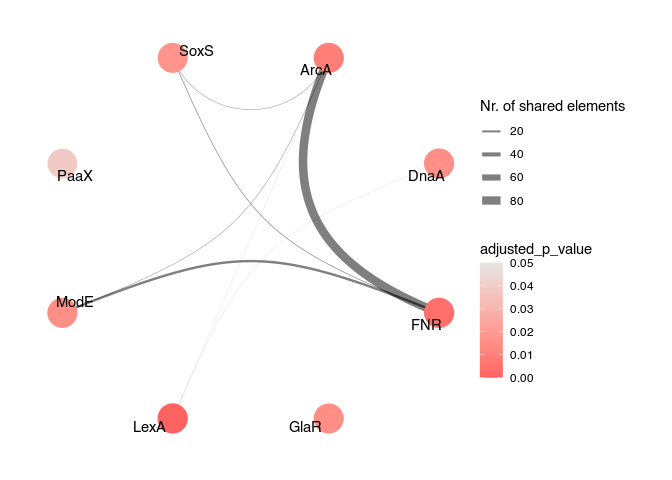
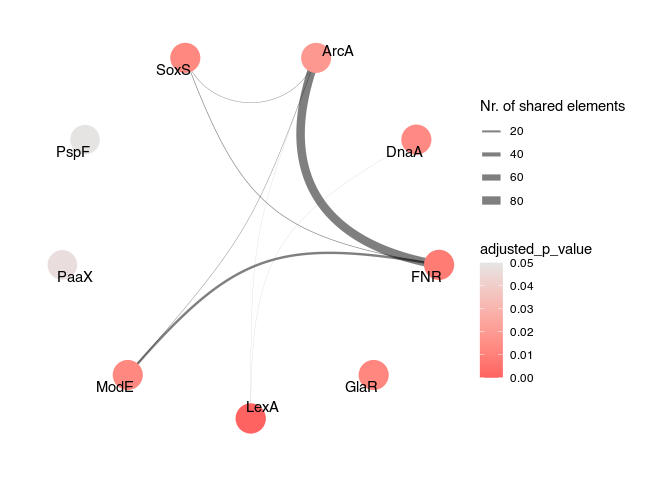
Venn diagram figure change

diff --git a/README.md b/README.md
@@ -690,7 +690,7 @@ gsea_results %>%
   filter(adjusted_p_value < 0.05) %>% 
   # the number of such rows
   nrow()
-#> [1] 8
+#> [1] 9
 ```
 
 Inspect the significant results:
@@ -705,14 +705,15 @@ gsea_results %>%
 
 | ontology_id | ontology_name | nr_common_with_tested_elements |   p_value | adjusted_p_value |
 |:------------|:--------------|-------------------------------:|----------:|-----------------:|
-| LexA        | LexA          |                             53 | 0.0000000 |        0.0000063 |
-| FNR         | FNR           |                            259 | 0.0000564 |        0.0043151 |
-| ArcA        | ArcA          |                            148 | 0.0001825 |        0.0093083 |
-| DnaA        | DnaA          |                             13 | 0.0005816 |        0.0148306 |
-| GlaR        | GlaR          |                              3 | 0.0005083 |        0.0148306 |
-| ModE        | ModE          |                             45 | 0.0004625 |        0.0148306 |
-| SoxS        | SoxS          |                             37 | 0.0007831 |        0.0171159 |
-| PaaX        | PaaX          |                             14 | 0.0020164 |        0.0385640 |
+| LexA        | LexA          |                             53 | 0.0000000 |        0.0000054 |
+| FNR         | FNR           |                            259 | 0.0001077 |        0.0082413 |
+| GlaR        | GlaR          |                              3 | 0.0002392 |        0.0122013 |
+| ModE        | ModE          |                             45 | 0.0003759 |        0.0128984 |
+| SoxS        | SoxS          |                             37 | 0.0004215 |        0.0128984 |
+| DnaA        | DnaA          |                             13 | 0.0005266 |        0.0134293 |
+| ArcA        | ArcA          |                            148 | 0.0008472 |        0.0185172 |
+| PaaX        | PaaX          |                             14 | 0.0024604 |        0.0470549 |
+| PspF        | PspF          |                              7 | 0.0029044 |        0.0493741 |
 
 ### Visualising the GSEA Results
 
@@ -966,7 +967,7 @@ sessionInfo()
 #> other attached packages:
 #>  [1] lubridate_1.9.3 forcats_1.0.0   stringr_1.5.1   dplyr_1.1.4    
 #>  [5] purrr_1.0.2     readr_2.1.5     tidyr_1.3.1     tibble_3.2.1   
-#>  [9] ggplot2_3.5.1   tidyverse_2.0.0 mulea_1.0.1    
+#>  [9] ggplot2_3.5.1   tidyverse_2.0.0 mulea_1.0.2    
 #> 
 #> loaded via a namespace (and not attached):
 #>  [1] fastmatch_1.1-4     gtable_0.3.5        xfun_0.47          
